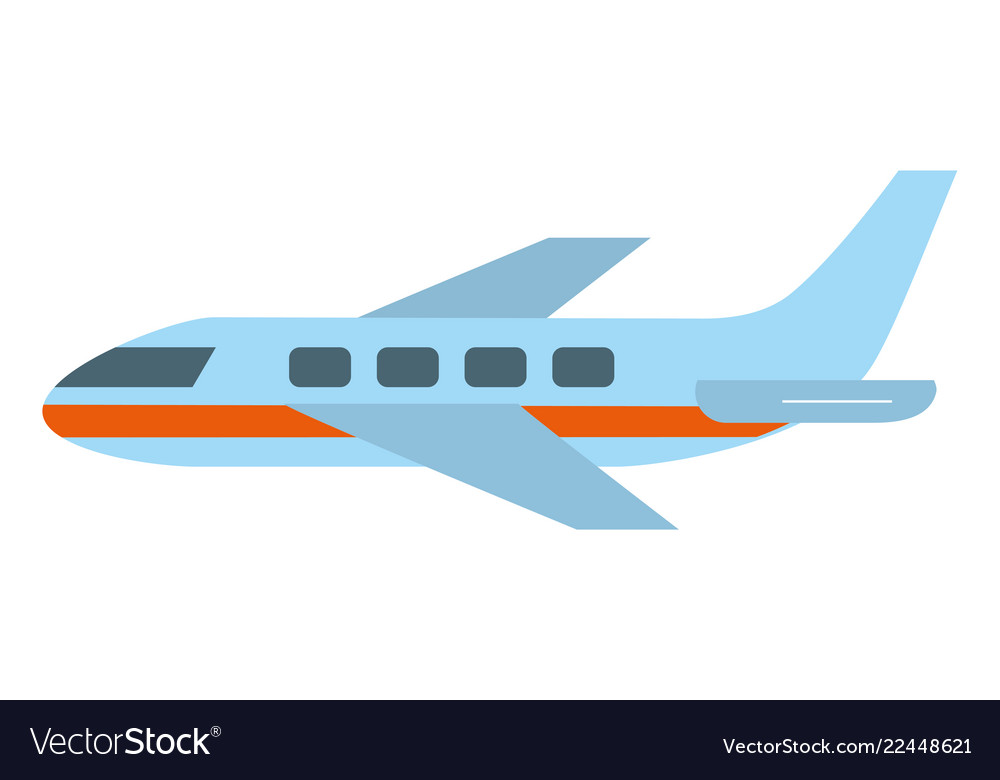
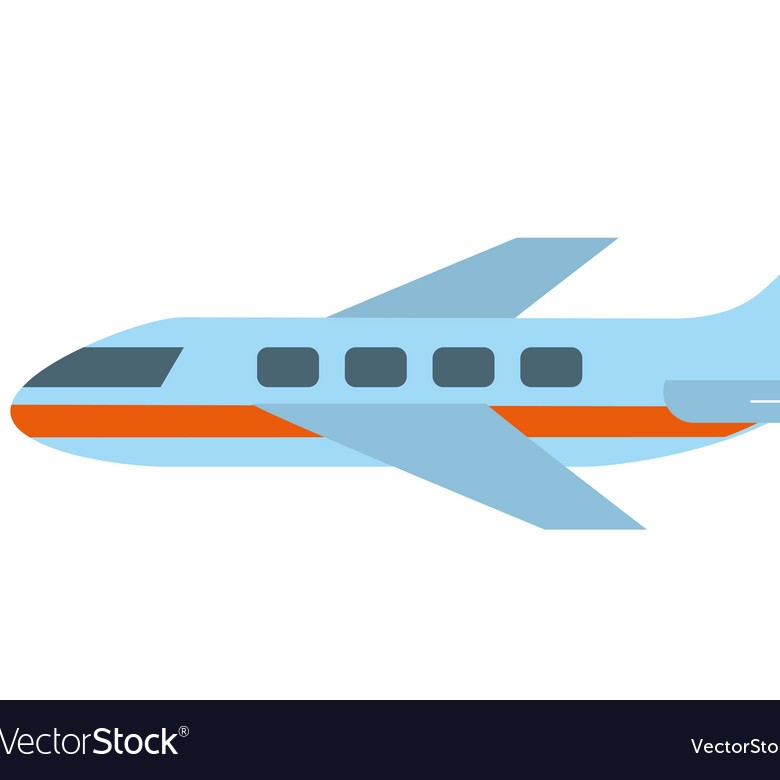
project pictures cropped

diff --git a/index.html b/index.html
@@ -12,7 +12,7 @@
             <nav class="website-navigation">
                 <ul>
                     <li>
-                        <a href="#about">ABOUT</a>
+                        <a href="#about-me">ABOUT</a>
                     </li>
                     <li>
                         <a href="#projects">PROJECTS</a>
@@ -34,12 +34,14 @@
         </section>
 
         <!--about-me-->
-        <section id="about">
+        <section id="about-me">
             <h2>ABOUT</h2>
-            <img src="./assets/imgs/pro-pic.jpg" alt="headshot">
-            <p>
-                Before I chose the life of a developer I was a CPA accountant working at an accounting firm. I changed career paths and now I plan on being the best software engineer that I can be.
-            </p>
+            <div> 
+                <img src="./assets/imgs/pro-pic.jpg" alt="headshot">
+                <p>
+                    Before I chose the life of a developer I was a CPA accountant working at an accounting firm. I changed career paths and now I plan on being the best software engineer that I can be.
+                </p>
+            </div>
         </section>
 
         <!--projects-->
@@ -75,7 +77,7 @@
                     <a href="https://alexelliott22.github.io/run-buddy/"><img src="" alt="">
                         <img src="./assets/imgs/cartoon shoe.png" alt="jordan 1">
                     </a>
-                    <p>Get Yoked</p>
+                    <p>Run Buddy</p>
                 </li>
                 <li>
                     <a href="https://alexelliott22.github.io/horiseon-website-launch/">

diff --git a/assets/css/style.css b/assets/css/style.css
@@ -79,4 +79,79 @@ footer div a:hover {
 
 /*hero start*/
 
+.hero {
+    margin: 100px 0;
+}
 
+.hero h1 {
+    text-align: center;
+    margin: auto;
+    font: large;
+}
+
+.hero h1 span {
+    font-weight: bolder;
+    font-size: xx-large;
+}
+
+/*end of hero section*/
+
+#about-me {
+    display: flex;
+    flex-direction: column;
+}
+
+#about-me h2 {
+    margin: auto;
+    padding-bottom: 60px;
+}
+
+#about-me div {
+    display: flex;
+    align-items: center;
+}
+
+#about-me img {
+    border-radius: 50%;
+}
+
+#about-me p {
+    padding: 0 80px;
+
+}
+
+/*end of about me*/
+
+/* start of projects*/
+
+#projects {
+    display: flex;
+    flex-direction: column;
+}
+
+#projects h2 {
+    margin: 30px auto;
+    padding: 10px 0;
+}
+
+#projects ul {
+    display: flex;
+    justify-content: space-between;
+    flex-wrap: wrap;
+    list-style: none;
+}
+
+#projects ul li {
+    margin: 15px;
+    text-align: center;
+}
+
+
+#projects ul li a img {
+    border-radius: 50%;
+    width: 200px;
+}
+
+#projects ul li a img:hover {
+    opacity: .5;
+}
